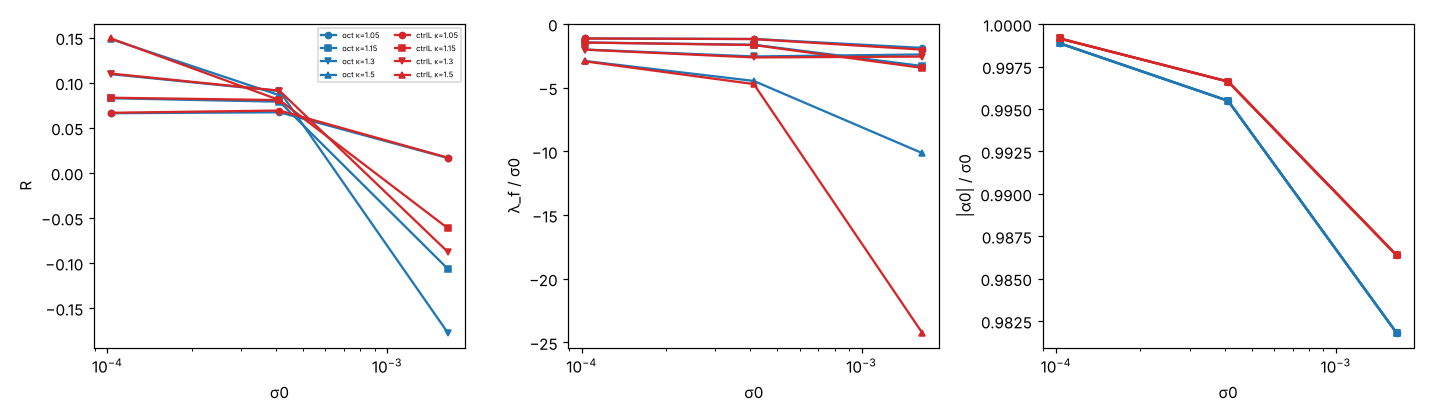
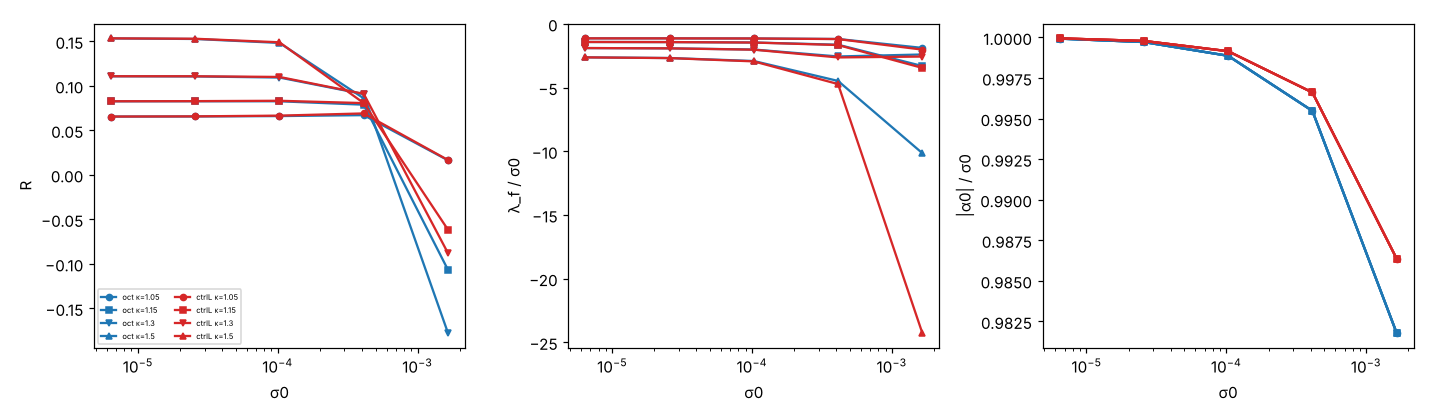
v7: task A complete (sigma0 scaling table, windows)
Claude-Session: https://claude.ai/code/session_01SgnFkswyUKdYCWjKRVCaTY

diff --git a/scripts/v7_A_table.py b/scripts/v7_A_table.py
@@ -51,3 +51,19 @@ for case, c in (("oct", "#1f77b4"), ("ctrlL", "#d62728")):
 ax[0].set_ylabel("R"); ax[1].set_ylabel("λ_f / σ0"); ax[2].set_ylabel("|α0| / σ0")
 for a in ax: a.set_xscale("log"); a.set_xlabel("σ0")
 ax[0].legend(fontsize=5, ncol=2); fig.tight_layout(); fig.savefig("results_v7/figures/A_R_vs_sigma0.png", dpi=110)
+
+# 16 배 창 (연속 3 개 σ0) 별 R 의 상대 변화 (max-min)/mean
+FL = sorted({r["f"] for r in rows})
+print("\n16배 창별 R 상대 변화 (max-min)/mean [%]  (창 = 연속한 σ0 세 개: f 가 4배씩)")
+win = {}
+for case in ("oct", "ctrlL"):
+    for kf in sorted({r["kf"] for r in rows}):
+        for i in range(len(FL) - 2):
+            fs = FL[i:i + 3]
+            Rv = [next((r["R"] for r in rows if r["case"] == case and r["kf"] == kf and r["f"] == f_), np.nan) for f_ in fs]
+            if np.all(np.isfinite(Rv)) and np.mean(Rv) > 0:
+                win[(case, kf, fs[0])] = 100 * (max(Rv) - min(Rv)) / np.mean(Rv)
+for case in ("oct", "ctrlL"):
+    print(case, "창 시작 f:", [f for f in FL[:3]])
+    for kf in sorted({r["kf"] for r in rows}):
+        print("  κ_f=%.2f" % kf, ["%.1f%%" % win.get((case, kf, f), float("nan")) for f in FL[:3]])
